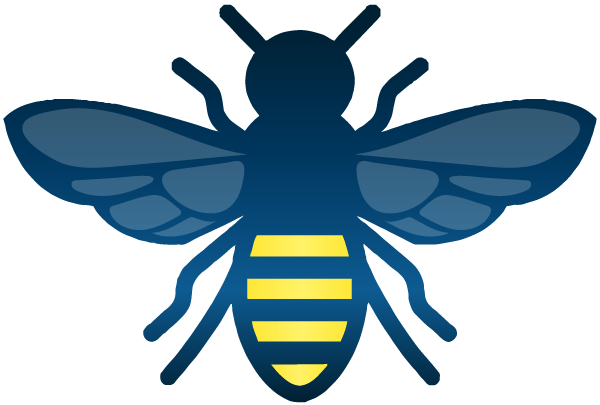
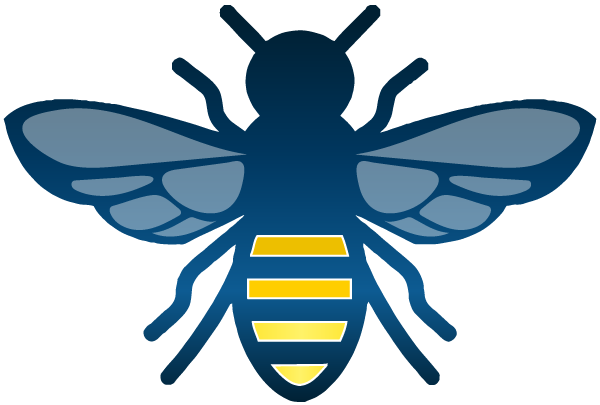
revised HTML, CSS and JS files

diff --git a/index.html b/index.html
@@ -1,5 +1,6 @@
 <!DOCTYPE html>
 <html lang="en">
+
 <head>
   <meta charset="UTF-8">
   <meta http-equiv="X-UA-Compatible" content="IE=edge">
@@ -7,15 +8,16 @@
   <title>WeatherBee App</title>
   <link rel="stylesheet" href="./assets/css/style.css">
 </head>
+
 <body>
-  
+
   <!-- HEADER -->
   <header class="main-header" id="header">
     <img src="./assets/images/bee.png" alt="bee" id="bee-icon">
     <div class="logo-container">
       <h1 class="logo">Weather<span id="bee">Bee</span></h1>
     </div>
-      <p class="subhead">Weather has become quite the buzz lately.</p>
+    <p class="subhead">Weather has become quite the buzz lately.</p>
   </header>
   <!-- MAIN CONTAINER START -->
   <main class="main-container">
@@ -25,7 +27,8 @@
         <h3 class="card-header">Search for a City:</h3>
         <!-- FORM -->
         <form class="card-body" id="user-search">
-          <input name="cityname" type="text" autofocus="true" placeholder="San Diego" class="form-input" id="cityname" />
+          <input name="cityname" type="text" autofocus="true" placeholder="San Diego" class="form-input"
+            id="cityname" />
           <!-- BUTTON -->
           <button type="submit" class="btn">Search</button>
         </form>
@@ -34,67 +37,71 @@
     <!-- SEARCH RESULTS CONTAINER -->
     <div id="results-container">
       <div id="section-one-results">
-          <h3 class="results-subhead">Showing weather results for:</h3>
-          <div id="main-search-results" class="list-group">
-            <h3><span id="main-section-result" class="main-heading">Houston (06/03/2022)</span></h3>
-            <div><img src=""><span id="icon" alt="weather icon"></span></div>
-            <h4>Temp:<span id="temperature"> 78.01F</span></h4>
-            <h4>Wind:<span id="wind"> 5.0 mph</span></h4>
-            <h4>Humidity:<span id="humidity"> 70%</span></h4>
-            <h4>UV Index:<span id="uv-index"> 0.47</span></h4>
+        <h3 class="results-subhead">Showing weather results for:</h3>
+        <div id="main-search-results" class="list-group">
+
+          <div class="heading-icon-container">
+          <h3><span id="main-section-result" class="main-heading">Houston <span id="current-date">(06/03/2022)</span></span></h3>
+          <div class="weather-icon" id="main-icon"><img alt="icon" src="./icons/01d.png" /></div>
           </div>
+
+          <h4>Temp:&nbsp<span id="temperature">78</span><span class="degrees">&degF</span></h4>
+          <h4>Wind:&nbsp<span id="wind">5.0 MPH</span></h4>
+          <h4>Humidity:&nbsp<span id="humidity">70%</span></h4>
+          <h4>UV Index:&nbsp<span id="uv-index">0.47</span></h4>
+        </div>
       </div>
 
       <h3 id="forecast-subhead">5-Day Forecast:</h3>
 
       <div id="forecast-container">
-        <div id="forecast-card">
+        <div class="forecast-card" id="day1">
           <div id="forecast-list-elements" class="forecast-list-group">
             <h3><span id="forecast-date-results" class="date-goes-here">06/04/2022</span></h3>
             <div><img src=""><span id="w-icon" alt="weather icon"></span></div>
-            <h5>Temp:<span id="temperature"> 78.01F</span></h4>
-            <h5>Wind:<span id="wind"> 5.0 mph</span></h4>
-            <h5>Humidity:<span id="humidity"> 70%</span></h4>
+            <h5>Temp:&nbsp<span id="temperature">79</span><span class="degrees">&degF</span></h4>
+              <h5>Wind:&nbsp<span id="wind"> 5.0 MPH</span></h4>
+                <h5>Humidity:&nbsp<span id="humidity"> 70%</span></h4>
           </div>
         </div>
 
-        <div id="forecast-card">
+        <div class="forecast-card" id="day2">
           <div id="forecast-list-elements" class="forecast-list-group">
             <h3><span id="forecast-date-results" class="date-goes-here"></span></h3>
             <div><img src=""><span id="w-icon" alt="weather icon"></span></div>
-            <h5>Temp:<span id="temperature"></span></h4>
-            <h5>Wind:<span id="wind"></span></h4>
-            <h5>Humidity:<span id="humidity"></span></h4>
+            <h5>Temp:&nbsp<span id="temperature"></span></h4>
+              <h5>Wind:&nbsp<span id="wind"></span></h4>
+                <h5>Humidity:&nbsp<span id="humidity"></span></h4>
           </div>
         </div>
 
-        <div id="forecast-card">
+        <div class="forecast-card" id="day3">
           <div id="forecast-list-elements" class="forecast-list-group">
             <h3><span id="forecast-date-results" class="date-goes-here"></span></h3>
             <div><img src=""><span id="w-icon" alt="weather icon"></span></div>
-            <h5>Temp:<span id="temperature"></span></h4>
-            <h5>Wind:<span id="wind"></span></h4>
-            <h5>Humidity:<span id="humidity"></span></h4>
+            <h5>Temp:&nbsp<span id="temperature"></span></h4>
+              <h5>Wind:&nbsp<span id="wind"></span></h4>
+                <h5>Humidity:&nbsp<span id="humidity"></span></h4>
           </div>
         </div>
 
-        <div id="forecast-card">
+        <div class="forecast-card" id="day4">
           <div id="forecast-list-elements" class="forecast-list-group">
             <h3><span id="forecast-date-results" class="date-goes-here"></span></h3>
             <div><img src=""><span id="w-icon" alt="weather icon"></span></div>
-            <h5>Temp:<span id="temperature"></span></h4>
-            <h5>Wind:<span id="wind"></span></h4>
-            <h5>Humidity:<span id="humidity"></span></h4>
+            <h5>Temp:&nbsp<span id="temperature"></span></h4>
+              <h5>Wind:&nbsp<span id="wind"></span></h4>
+                <h5>Humidity:&nbsp<span id="humidity"></span></h4>
           </div>
         </div>
 
-        <div id="forecast-card">
+        <div class="forecast-card" id="day5">
           <div id="forecast-list-elements" class="forecast-list-group">
             <h3><span id="forecast-date-results" class="date-goes-here"></span></h3>
             <div><img src=""><span id="w-icon" alt="weather icon"></span></div>
-            <h5>Temp:<span id="temperature"></span></h4>
-            <h5>Wind:<span id="wind"></span></h4>
-            <h5>Humidity:<span id="humidity"></span></h4>
+            <h5>Temp:&nbsp<span id="temperature"></span></h4>
+              <h5>Wind:&nbsp<span id="wind"></span></h4>
+                <h5>Humidity:&nbsp<span id="humidity"></span></h4>
           </div>
         </div>
 
@@ -106,6 +113,9 @@
 
   <!-- BOOTSTRAP & JS SCRIPTS -->
   <script src="https://cdn.jsdelivr.net/npm/bootstrap@5.1.3/dist/js/bootstrap.bundle.min.js"></script>
+  <script src="https://cdnjs.cloudflare.com/ajax/libs/moment.js/2.24.0/moment.min.js"></script>
+  <script src="https://cdnjs.cloudflare.com/ajax/libs/dayjs/1.11.3/dayjs.min.js"></script>
   <script src="./assets/js/script.js"></script>
 </body>
+
 </html>

diff --git a/assets/js/script.js b/assets/js/script.js
@@ -1,34 +1,66 @@
 // original URL:
 var cityUrl = "https://api.openweathermap.org/geo/1.0/direct?limit=5&appid=e0c79796705c396d02d89d49c8fdba43";
 var key = "e0c79796705c396d02d89d49c8fdba43";
-var city = "Houston";
-var currentWeatherUrl = `https://api.openweathermap.org/data/2.5/weather?q=${city}&appid=${key}`
-// console.log(currentWeatherUrl);
-// main section result goes here:
+var fiveDayArray = [1, 2, 3, 4, 5];
 var mainResultEl = document.querySelector("#main-section-result");
-// search button
+var weatherIcon = document.querySelector(".weather-icon");
+var temp = document.getElementById("temperature");
+var wind = document.getElementById("wind");
+var hum = document.getElementById("humidity");
+var uv = document.getElementById("uv-index");
+var date = document.getElementById("current-date");
+var icon = "https://openweathermap.org/img/w/";
 var searchForm = document.getElementById("user-search");
 
 // get weather data:
 var onSearchSubmit = function(event) {
+  var fData = new FormData(event.target);
   event.preventDefault();
 
-    fetch(currentWeatherUrl)
+    fetch(`https://api.openweathermap.org/data/2.5/weather?q=${fData.get("cityname")}&units=imperial&appid=${key}`)
       .then(function(response) {
       return response.json();
   })
       .then(function(data) {
-        console.log(data.coord);
+
+// ******** date goes hear ********
+
+        console.log(data.main);
 
   var lat = data.coord.lat;
   var lon = data.coord.lon;
-  var fiveDayForecastUrl = `https://api.openweathermap.org/data/2.5/forecast?lat=${lat}&lon=${lon}&appid=${key}`;
+  var fiveDayForecastUrl = `https://api.openweathermap.org/data/2.5/onecall?lat=${lat}&lon=${lon}&exclude=hourly&units=imperial&wind=speed&appid=${key}`;
     fetch(fiveDayForecastUrl)
       .then((response) => response.json())
-      .then((data) => {
-        console.log(data);
+      .then((res) => {
+        mainResultEl.innerText = data.name;
+        weatherIcon.innerHTML = `<img src="./icons/${data.weather[0].icon}.png">`;
+        temp.innerText = Math.floor(data.main.temp);
+        wind.innerText = data['wind']['speed'] + " MPH";
+        hum.innerText = data.main.humidity + "%";
+        uv.innerText = res.current.uvi;
+        console.log(res);
+
+        var dailyForecast = function(day) {
+          var card = document.getElementById("day" + day);
+          var forecastDay = res.daily[day];
+          card.querySelector("#w-icon").innerHTML = `<img src="./icons/${forecastDay.weather[0].icon}.png">`;
+          card.querySelector("#temperature").innerText = Math.floor(forecastDay.temp.day);
+          card.querySelector("#wind").innerText = forecastDay.wind.day + " MPH";
+          // card.querySelector("#humidity").innerText = forecastDay.humidity.day;
+          console.log(day);
+        }
+        
+        for (var i = 0; i < fiveDayArray.length; i++) {
+            dailyForecast(fiveDayArray[i]);
+        }
+
+// ******** date goes hear ********
+      
+        console.log(res.daily[0]);
     });
 
+// this grabs the city that is typed into the search field:
   var fData = new FormData(event.target);
 
   var city = fData.get("cityname");
@@ -41,29 +73,9 @@ var onSearchSubmit = function(event) {
     })
       .then(console.log);
   })
+
+  .catch((err) => console.log(err));
 }
 
+// search city button submitted:
 searchForm.addEventListener("submit", onSearchSubmit);
- 
-
-
-
-
-// var searchForm = document.getElementById("user-search");
-// var onSearchSubmit = function(event) {
-//   event.preventDefault();
-
-// var fData = new FormData(event.target);
-
-// var city = fData.get("cityname");
-//   fetch(cityUrl + "&q=" + city) 
-//   .then(function(response) {
-//     return response.json();
-//   })
-//   .then(function(response) {
-//     return response[0];
-//   })
-//   .then(console.log);
-// }
-
-// searchForm.addEventListener("submit", onSearchSubmit);

diff --git a/assets/css/style.css b/assets/css/style.css
@@ -9,6 +9,7 @@
   --accent-color-white: #ffffff;
   --accent-transparent-white: #ffffffd1;
   --accent-lt-blue: #ecfbff;
+  --pale-blue: #9be8ff;
   --accent-lighter-blue: #b2eafd;
   --accent-blue: #66b7d0;
   --accent-md-blue: #2077b6;
@@ -24,6 +25,7 @@
   --background-body-gradient: linear-gradient(#ffffff, #ffffff, #ffffff, #ffffff, #ecfbff, #c7f3ff);
   --button-gradient: linear-gradient(#fff268, #fff268, #fee736);
   --text-shadow: 0 3px 3px #0064ac6e;
+  --weather-circle-gradient: linear-gradient(#c7f3ff, #7ae0ff);
 }
 
 * {
@@ -72,7 +74,9 @@ header {
   z-index: 5000;
   top: -19px;
   right: -373px;
-  opacity: 75%;
+  opacity: 85%;
+  -webkit-filter: drop-shadow(0 3px 3px #0064ac6e);
+  filter: drop-shadow(0 3px 1px #0064ac80);
 }
 
 .logo-container {
@@ -175,8 +179,20 @@ input::placeholder {
   padding: 10px 15px;
 }
 
+#heading-icon-container {
+  position: relative;
+  width: 100%;
+  margin: auto;
+  display: flex;
+  flex-wrap: wrap;
+}
+
 .main-heading {
   font-size: 24px;
+}
+
+#main-icon > img {
+  width: 50px;
 }
 
 #section-one-results {
@@ -185,7 +201,7 @@ input::placeholder {
   background-image: var(--background-lt-blue-gradient);
   border-radius: 5px;
   overflow: hidden;
-  height: 230px;
+  height: 270px;
 }
 
 #main-search-results h4 {
@@ -193,7 +209,7 @@ input::placeholder {
   font-family: "Roboto Condensed";
   font-weight: 700;
   font-size: 16px;
-  line-height: 30px;
+  line-height: 33px;
   letter-spacing: 0.4px;
 }
 
@@ -205,12 +221,24 @@ input::placeholder {
   letter-spacing: 0.3px;
 }
 
+.degrees {
+  color: black;
+}
+
 #temperature,
 #wind,
 #humidity,
 #uv-index {
   color: black;
   font-weight: 700;
+}
+
+#uv-index {
+  background-color: var(--accent-drk-yellow);
+  padding: 4px 8px 2px 8px;
+  border-radius: 5px;
+  /* box-shadow: var(--text-shadow); */
+  border: 1px solid var(--accent-color-white);
 }
 
 #forecast-subhead {
@@ -228,7 +256,8 @@ input::placeholder {
   height: 170px;
 }
 
-#forecast-card {
+.forecast-card {
+  height: 200px;
   width: 140px;
   margin-top: 10px;
   background-image: var(--background-image-gradient);
@@ -238,6 +267,15 @@ input::placeholder {
 .date-goes-here {
   color: var(--accent-color-white);
   font-size: 18px;
+}
+
+#w-icon img {
+  margin-top: 5px;
+  padding: 4px;
+  background-image: var(--weather-circle-gradient);
+  width: 45px;
+  border-radius: 50%;
+  border: 3px solid var(--accent-md-blue);
 }
 
 .forecast-list-group {
@@ -286,7 +324,7 @@ input::placeholder {
     max-width: 90vw;
   }
 
-  #forecast-card {
+  .forecast-card {
     width: 42vw;
     margin: 10px;
     padding-bottom: 10px;
@@ -309,7 +347,7 @@ input::placeholder {
     justify-content: space-evenly;
   }
 
-  #forecast-card {
+  .forecast-card {
     height: 160px;
     width: 90vw;
     margin: 10px;
